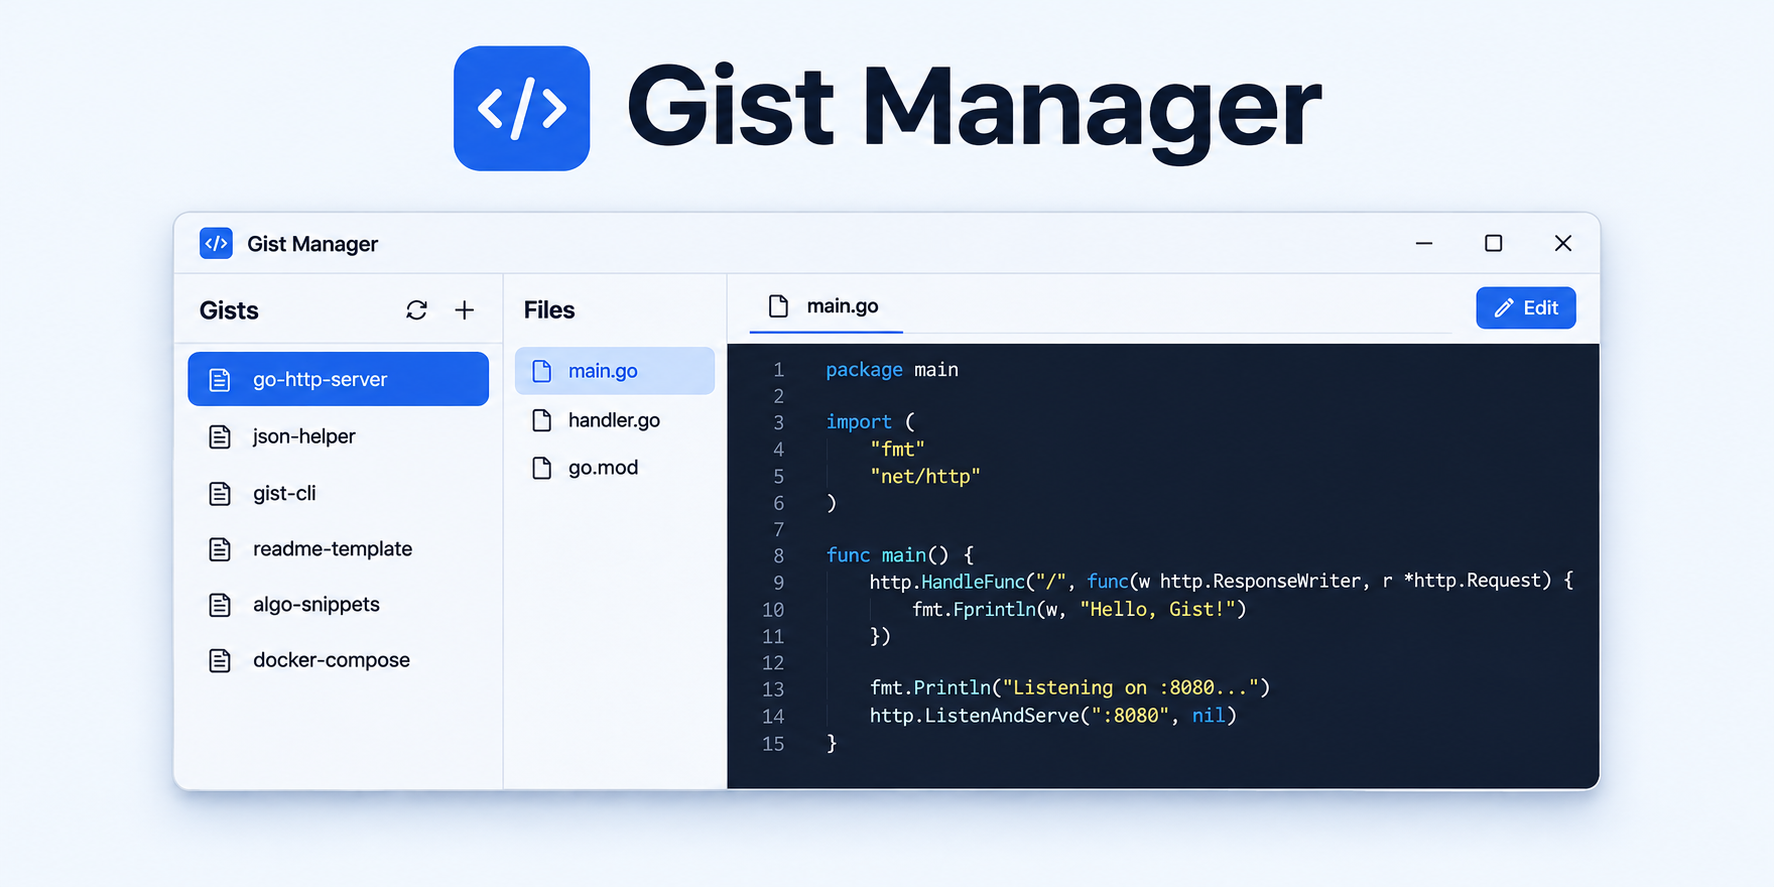
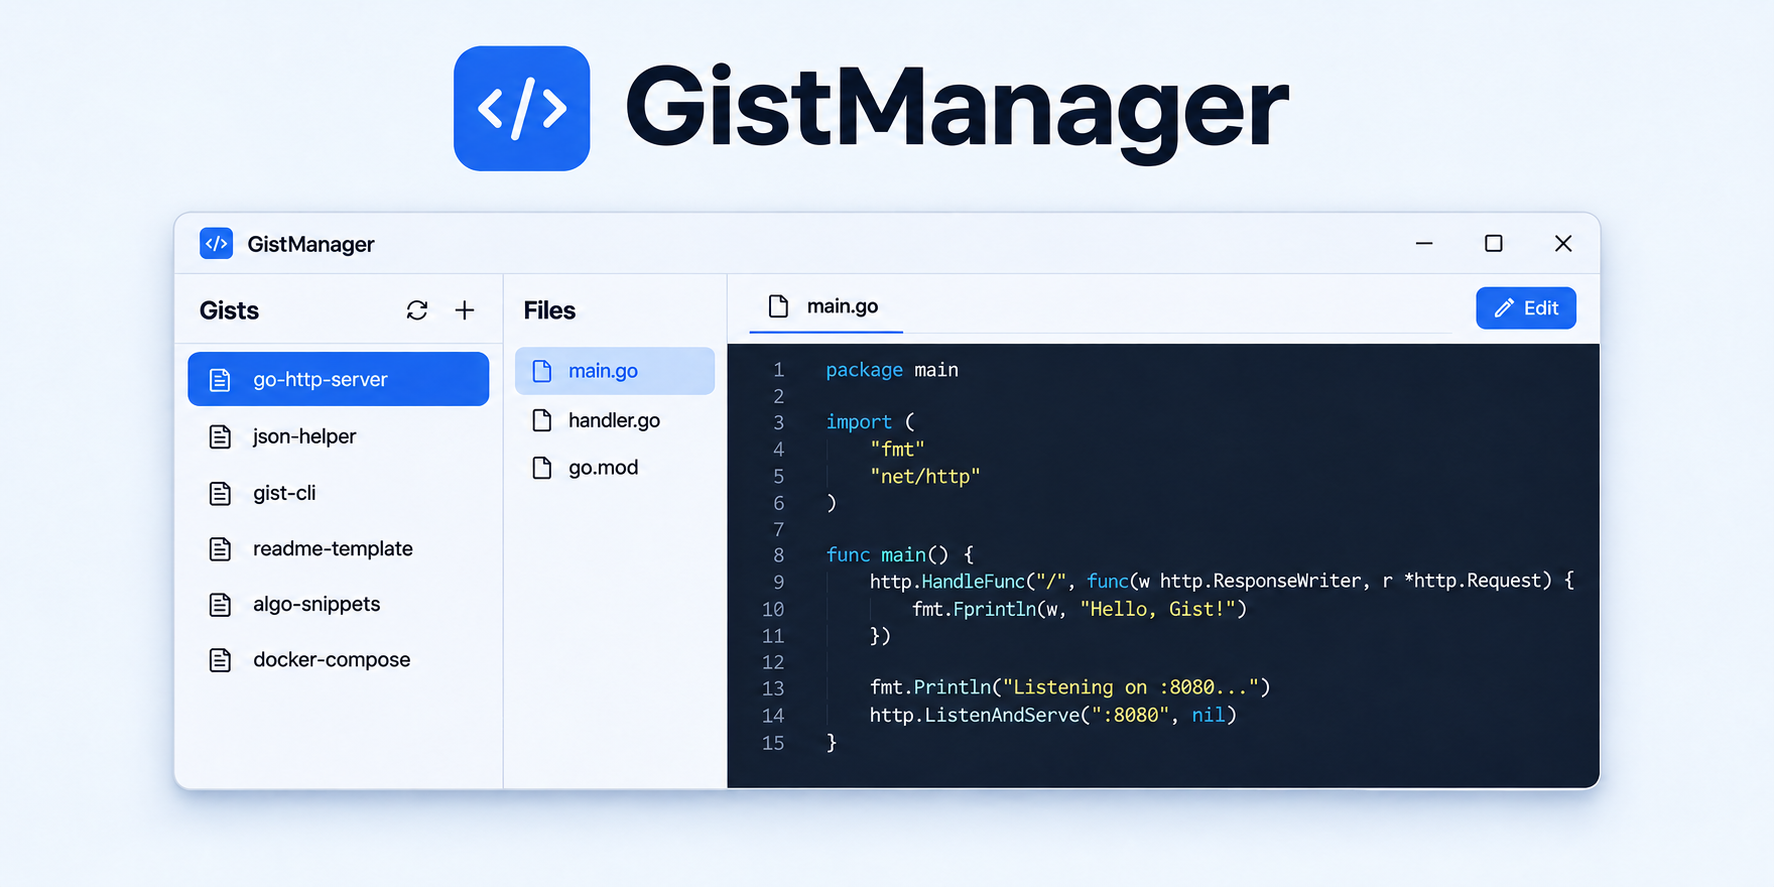
feat: release v1.0.8 with unified GistManager naming

diff --git a/cmd/release/windows_installer_test.go b/cmd/release/windows_installer_test.go
@@ -9,7 +9,7 @@ import (
 
 func TestChineseInstallerPreservesApplicationResources(t *testing.T) {
 	stage := t.TempDir()
-	config := installerConfig{Name: "Gist管理器", Slug: "gist-manager", Identifier: "com.perzikkop.gist-manager", Version: "1.0.3"}
+	config := installerConfig{Name: "GistManager", Slug: "gist-manager", Identifier: "com.perzikkop.gist-manager", Version: "1.0.3"}
 	output := filepath.Join(stage, config.Name+" Setup "+config.Version+" amd64.exe")
 	frameworkInstaller := config.Slug + "-setup-" + config.Version + "-amd64.exe"
 	for _, file := range []string{config.Name + ".exe", "icon.png", "update-public.key", filepath.Base(output), frameworkInstaller, "helper.exe"} {
@@ -37,7 +37,9 @@ func TestChineseInstallerPreservesApplicationResources(t *testing.T) {
 			t.Fatal("installer included another installer", installer)
 		}
 	}
-	for _, text := range []string{`MUI_LANGUAGE "SimpChinese"`, "创建桌面快捷方式", "运行 Gist管理器", `MUI_UNPAGE_CONFIRM`, `MUI_UNPAGE_INSTFILES`} {
+	for _, text := range []string{`MUI_LANGUAGE "SimpChinese"`, "创建桌面快捷方式", "运行 GistManager", `MUI_UNPAGE_CONFIRM`, `MUI_UNPAGE_INSTFILES`,
+		`InstallDirRegKey HKCU "Software\Microsoft\Windows\CurrentVersion\Uninstall\com.perzikkop.gist-manager" "InstallLocation"`,
+		`Delete "$INSTDIR\Gist管理器.exe"`, `Delete "$SMPROGRAMS\Gist管理器.lnk"`, `Delete "$DESKTOP\Gist管理器.lnk"`} {
 		if !strings.Contains(script, text) {
 			t.Errorf("missing Chinese installer UI: %s", text)
 		}
@@ -46,7 +48,7 @@ func TestChineseInstallerPreservesApplicationResources(t *testing.T) {
 
 func TestUniversalWindowsInstallerSelectsNativePayload(t *testing.T) {
 	root := t.TempDir()
-	config := installerConfig{Name: "Gist管理器", Slug: "gist-manager", Identifier: "com.perzikkop.gist-manager", Version: "1.0.5"}
+	config := installerConfig{Name: "GistManager", Slug: "gist-manager", Identifier: "com.perzikkop.gist-manager", Version: "1.0.5"}
 	output := filepath.Join(root, "windows-universal", config.Name+" Setup "+config.Version+".exe")
 	payloads := map[string]string{}
 	for _, arch := range []string{"amd64", "arm64"} {

diff --git a/main.go b/main.go
@@ -70,9 +70,9 @@ func main() {
 		if err != nil {
 			log.Fatal(err)
 		}
-		*dataDir = filepath.Join(base, config.Name)
-		if mygo.IsDev() {
-			*dataDir += "-dev"
+		*dataDir, err = defaultDataDirectory(base, config.Name, mygo.IsDev())
+		if err != nil {
+			log.Fatal(err)
 		}
 		if !*demo && !mygo.IsDev() {
 			if err := security.ImportLegacy(*dataDir, base); err != nil {
@@ -96,6 +96,10 @@ func main() {
 		return
 	}
 	var vault security.Vault = security.SystemVault{}
+	if !mygo.App.IsPackaged() && !mygo.IsDev() {
+		// Unpackaged runs used the old app name as their credential service.
+		vault = security.SystemVault{Service: "Gist管理器"}
+	}
 	var biometric security.Biometric = security.SystemBiometric{}
 	if *demo {
 		vault, biometric = &app.DemoVault{}, app.DemoBiometric{}
@@ -122,13 +126,8 @@ func main() {
 	}
 	mygo.App.WhenReady(func() {
 		a.Window = mygo.NewWindow(mygo.WindowOptions{
-			Title: l10n.Text("Gist管理器"), Width: 1500, Height: 940, MinWidth: 1000, MinHeight: 680,
+			Title: l10n.Text("GistManager"), Width: 1500, Height: 940, MinWidth: 1000, MinHeight: 680,
 			Content: ui.View(a.View),
-		})
-		mygo.App.OnLocaleChanged(func(string) {
-			if !a.Window.IsDestroyed() {
-				a.Window.SetTitle(l10n.Text("Gist管理器"))
-			}
 		})
 		// Older Windows update helpers pass SW_HIDE to the relaunched app.
 		// Show the workspace before startup authentication can open its prompt.
@@ -173,4 +172,26 @@ func main() {
 	if err := mygo.App.Run(); err != nil {
 		log.Fatal(err)
 	}
+}
+
+func defaultDataDirectory(base, name string, dev bool) (string, error) {
+	suffix := ""
+	if dev {
+		suffix = "-dev"
+	}
+	directory := filepath.Join(base, name+suffix)
+	// Keep existing installations in place, including pending update paths.
+	for _, candidate := range []string{directory, filepath.Join(base, "Gist管理器"+suffix)} {
+		info, err := os.Stat(candidate)
+		if err == nil {
+			if !info.IsDir() {
+				return "", fmt.Errorf("application data path is not a directory: %s", candidate)
+			}
+			return candidate, nil
+		}
+		if !os.IsNotExist(err) {
+			return "", err
+		}
+	}
+	return directory, nil
 }

diff --git a/internal/l10n/en.go b/internal/l10n/en.go
@@ -2,7 +2,7 @@ package l10n
 
 var english = map[string]string{
 	"1 个文件":              "1 file",
-	"Gist管理器":            "Gist Manager",
+	"GistManager":        "GistManager",
 	"知道了":                "Dismiss",
 	"取消":                 "Cancel",
 	"演示模式":               "Demo",
@@ -182,7 +182,7 @@ var english = map[string]string{
 	"读取 %s 失败 (%d)":                             "Could not read %s (%d)",
 	"无法加载 Touch ID，请使用软件密码":                     "Could not load Touch ID; use your app password",
 	"此 Mac 未配置 Touch ID，请使用软件密码":                "Touch ID is not configured; use your app password",
-	"解锁 Gist管理器":                                "Unlock Gist Manager",
+	"解锁 GistManager":                            "Unlock GistManager",
 	"Touch ID 已取消或验证失败":                         "Touch ID was canceled or failed",
 	"无效的旧版凭据":                                   "Invalid legacy credentials",
 	"旧版凭据长度不正确":                                 "Invalid legacy credential length",
@@ -197,7 +197,7 @@ var english = map[string]string{
 	"凭据为空":                                      "Credentials are empty",
 	"Windows Hello 接口错误 (0x%08X)":               "Windows Hello error (0x%08X)",
 	"Windows Hello 的所属窗口已关闭":                    "The Windows Hello owner window was closed",
-	"验证身份以解锁或管理 Gist管理器密码":                      "Verify your identity to unlock Gist Manager or manage its password",
+	"验证身份以解锁或管理 GistManager密码":                  "Verify your identity to unlock GistManager or manage its password",
 	"应用尚未解锁":                                    "App is locked",
 	"安全设置损坏，无法安全启动: %w":                         "Security settings are damaged; the app cannot start safely: %w",
 	"安全设置不完整，请恢复 security.json 备份":              "Security settings are incomplete; restore your security.json backup",

diff --git a/internal/update/release_test.go b/internal/update/release_test.go
@@ -120,7 +120,7 @@ func TestRejectInvalidReleaseMetadata(t *testing.T) {
 func TestUnsignedInstallerRevalidatesGitHubRelease(t *testing.T) {
 	application := "GistManager.exe"
 	if runtime.GOOS == "darwin" {
-		application = "Gist管理器.app/Contents/MacOS/Gist管理器"
+		application = "GistManager.app/Contents/MacOS/GistManager"
 	}
 	archive := archiveFixture(t, application, "new application")
 	platform := runtime.GOOS + "-" + runtime.GOARCH
@@ -140,7 +140,7 @@ func TestUnsignedInstallerRevalidatesGitHubRelease(t *testing.T) {
 			target, executable := filepath.Join(dir, "installed.exe"), ""
 			if runtime.GOOS == "darwin" {
 				target = filepath.Join(dir, "Installed.app")
-				executable = filepath.Join(target, "Contents", "MacOS", "Gist管理器")
+				executable = filepath.Join(target, "Contents", "MacOS", "GistManager")
 				if err := os.MkdirAll(filepath.Dir(executable), 0o700); err != nil {
 					t.Fatal(err)
 				}
@@ -261,8 +261,8 @@ func TestGitHubReleaseUpdateIntegration(t *testing.T) {
 	target := filepath.Join(dir, "GistManager.exe")
 	executable := target
 	if runtime.GOOS == "darwin" {
-		target = filepath.Join(dir, "Gist管理器.app")
-		executable = filepath.Join(target, "Contents", "MacOS", "Gist管理器")
+		target = filepath.Join(dir, "GistManager.app")
+		executable = filepath.Join(target, "Contents", "MacOS", "GistManager")
 		if err := os.MkdirAll(filepath.Dir(executable), 0o700); err != nil {
 			t.Fatal(err)
 		}
@@ -277,6 +277,11 @@ func TestGitHubReleaseUpdateIntegration(t *testing.T) {
 	}
 	if err := ApplyPlan(path, "", false); err != nil {
 		t.Fatal("published archive failed to install", err)
+	}
+	if runtime.GOOS == "darwin" {
+		if _, err := os.Stat(executable); os.IsNotExist(err) {
+			executable = filepath.Join(target, "Contents", "MacOS", "Gist管理器")
+		}
 	}
 	output, err := exec.Command(executable, "--version").Output()
 	if err != nil || strings.TrimSpace(string(output)) != s.manifest.Version {

diff --git a/cmd/release/main.go b/cmd/release/main.go
@@ -206,12 +206,12 @@ func pack(args []string) error {
 		}
 	}
 	if *source == "" {
-		name := "Gist管理器.exe"
+		name := "GistManager.exe"
 		if strings.HasPrefix(*platform, "darwin-") {
-			name = "Gist管理器.app"
+			name = "GistManager.app"
 		}
 		if strings.HasPrefix(*platform, "linux-") {
-			name = "gist管理器"
+			name = "GistManager"
 		}
 		*source = filepath.Join("dist", *platform, name)
 	}
@@ -222,7 +222,7 @@ func pack(args []string) error {
 	archive := filepath.Join(*out, filename)
 	root := "GistManager.exe"
 	if strings.HasPrefix(*platform, "darwin-") {
-		root = "Gist管理器.app"
+		root = "GistManager.app"
 	}
 	if strings.HasPrefix(*platform, "linux-") {
 		root = "GistManager"
@@ -309,7 +309,7 @@ func archiveApp(source, target, root string) (err error) {
 			return err
 		}
 		header.Name, header.Method = name, zip.Deflate
-		if strings.HasPrefix(root, "Gist管理器.app") && strings.Contains(name, "/Contents/MacOS/") {
+		if strings.HasPrefix(root, "GistManager.app") && strings.Contains(name, "/Contents/MacOS/") {
 			header.SetMode(entry.Mode() | 0o111)
 		}
 		part, err := writer.CreateHeader(header)

diff --git a/cmd/release/main_test.go b/cmd/release/main_test.go
@@ -89,3 +89,26 @@ func TestPortableArchiveWithoutSigningKey(t *testing.T) {
 		t.Fatal("unexpected portable archive layout")
 	}
 }
+
+func TestMacArchiveUsesGistManagerBundleAndExecutable(t *testing.T) {
+	t.Chdir(t.TempDir())
+	binary := filepath.Join("dist", "darwin-arm64", "GistManager.app", "Contents", "MacOS", "GistManager")
+	if err := os.MkdirAll(filepath.Dir(binary), 0o700); err != nil {
+		t.Fatal(err)
+	}
+	if err := os.WriteFile(binary, []byte("fixture"), 0o600); err != nil {
+		t.Fatal(err)
+	}
+	if err := pack([]string{"-unsigned", "-platform", "darwin-arm64", "-version", "1.0.0"}); err != nil {
+		t.Fatal(err)
+	}
+	archive, err := zip.OpenReader("release/GistManager-1.0.0-darwin-arm64.zip")
+	if err != nil {
+		t.Fatal(err)
+	}
+	defer archive.Close()
+	if len(archive.File) != 1 || archive.File[0].Name != "GistManager.app/Contents/MacOS/GistManager" ||
+		archive.File[0].Mode().Perm()&0o111 != 0o111 {
+		t.Fatal("incorrect renamed macOS bundle or missing executable permissions")
+	}
+}

diff --git a/main_test.go b/main_test.go
@@ -65,3 +65,34 @@ func TestPackagedNativeUpdateHelper(t *testing.T) {
 		t.Fatal("native updater changed unrelated installation files")
 	}
 }
+
+func TestDefaultDataDirectoryPreservesExistingInstallation(t *testing.T) {
+	for _, dev := range []bool{false, true} {
+		suffix := ""
+		if dev {
+			suffix = "-dev"
+		}
+		root := t.TempDir()
+		current := filepath.Join(root, "GistManager"+suffix)
+		legacy := filepath.Join(root, "Gist管理器"+suffix)
+		check := func(want string) {
+			t.Helper()
+			got, err := defaultDataDirectory(root, "GistManager", dev)
+			if err != nil || got != want {
+				t.Fatalf("directory = %q, %v; want %q", got, err, want)
+			}
+		}
+		check(current)
+		if err := os.Mkdir(legacy, 0o700); err != nil {
+			t.Fatal(err)
+		}
+		if err := os.WriteFile(filepath.Join(legacy, "layout.json"), []byte(`{"language":"en"}`), 0o600); err != nil {
+			t.Fatal(err)
+		}
+		check(legacy)
+		if err := os.Mkdir(current, 0o700); err != nil {
+			t.Fatal(err)
+		}
+		check(current)
+	}
+}

diff --git a/internal/update/install.go b/internal/update/install.go
@@ -178,14 +178,20 @@ func applyPlan(path, publicKey string, relaunch bool, client *http.Client) error
 	}
 	newTarget := filepath.Join(work, "GistManager.exe")
 	if runtime.GOOS == "darwin" {
-		newTarget = filepath.Join(work, "Gist管理器.app")
+		newTarget = filepath.Join(work, "GistManager.app")
+		if _, err := os.Stat(newTarget); os.IsNotExist(err) {
+			newTarget = filepath.Join(work, "Gist管理器.app")
+		}
 	}
 	if runtime.GOOS == "linux" {
 		newTarget = filepath.Join(work, "GistManager")
 	}
 	entry := newTarget
 	if runtime.GOOS == "darwin" {
-		entry = filepath.Join(newTarget, "Contents", "MacOS", "Gist管理器")
+		entry = filepath.Join(newTarget, "Contents", "MacOS", "GistManager")
+		if _, err := os.Stat(entry); os.IsNotExist(err) {
+			entry = filepath.Join(newTarget, "Contents", "MacOS", "Gist管理器")
+		}
 	}
 	info, err := os.Stat(entry)
 	if err != nil {

diff --git a/cmd/release/windows_installer.go b/cmd/release/windows_installer.go
@@ -166,6 +166,12 @@ func windowsPayloadFiles(config installerConfig, stage, output string) (string, 
 
 func renderWindowsInstaller(config installerConfig, files, output, icon string) string {
 	executable := config.Name + ".exe"
+	legacyCleanup := ""
+	if config.Name == "GistManager" && config.Identifier == "com.perzikkop.gist-manager" {
+		legacyCleanup = `  Delete "$INSTDIR\Gist管理器.exe"
+  Delete "$SMPROGRAMS\Gist管理器.lnk"
+  Delete "$DESKTOP\Gist管理器.lnk"`
+	}
 	return strings.NewReplacer(
 		"@NAME@", nsisQuote(config.Name),
 		"@DISPLAY_NAME@", nsisEscape(config.Name),
@@ -176,6 +182,7 @@ func renderWindowsInstaller(config installerConfig, files, output, icon string) 
 		"@OUTPUT@", nsisQuote(output),
 		"@ICON@", nsisQuote(icon),
 		"@FILES@", files,
+		"@LEGACY_CLEANUP@", legacyCleanup,
 	).Replace(windowsInstallerTemplate)
 }
 

diff --git a/internal/update/service_test.go b/internal/update/service_test.go
@@ -113,7 +113,7 @@ func TestCheckDownloadAndTampering(t *testing.T) {
 func TestInstallVerifiedArchiveAndRejectTraversal(t *testing.T) {
 	name := "GistManager.exe"
 	if runtime.GOOS == "darwin" {
-		name = "Gist管理器.app/Contents/MacOS/Gist管理器"
+		name = "GistManager.app/Contents/MacOS/GistManager"
 	}
 	if runtime.GOOS == "linux" {
 		name = "GistManager"
@@ -139,7 +139,7 @@ func TestInstallVerifiedArchiveAndRejectTraversal(t *testing.T) {
 	}
 	installed := target
 	if runtime.GOOS == "darwin" {
-		installed = filepath.Join(target, "Contents/MacOS/Gist管理器")
+		installed = filepath.Join(target, "Contents/MacOS/GistManager")
 	}
 	data, err := os.ReadFile(installed)
 	if err != nil || string(data) != "new native executable" {

diff --git a/internal/security/biometric_darwin.go b/internal/security/biometric_darwin.go
@@ -51,7 +51,7 @@ func (SystemBiometric) Verify(ctx context.Context) error {
 	done := make(chan bool, 1)
 	block := objc.NewBlock(func(_ objc.Block, success bool, _ objc.ID) { done <- success })
 	defer block.Release()
-	reason := objc.ID(objc.GetClass("NSString")).Send(objc.RegisterName("alloc")).Send(objc.RegisterName("initWithUTF8String:"), l10n.Text("解锁 Gist管理器"))
+	reason := objc.ID(objc.GetClass("NSString")).Send(objc.RegisterName("alloc")).Send(objc.RegisterName("initWithUTF8String:"), l10n.Text("解锁 GistManager"))
 	defer reason.Send(objc.RegisterName("release"))
 	object.Send(objc.RegisterName("evaluatePolicy:localizedReason:reply:"), int64(1), reason, block)
 	select {

diff --git a/internal/security/hello_windows.go b/internal/security/hello_windows.go
@@ -96,7 +96,7 @@ func runHello(ctx context.Context, verify bool, owner uintptr) (int32, error) {
 		// IUserConsentVerifierStatics inherits IInspectable (six base slots).
 		result, _, _ = syscall.SyscallN(factory.vtable[6], uintptr(unsafe.Pointer(factory)), uintptr(unsafe.Pointer(&operation)))
 	} else {
-		message, stringErr := helloString(l10n.Text("验证身份以解锁或管理 Gist管理器密码"))
+		message, stringErr := helloString(l10n.Text("验证身份以解锁或管理 GistManager密码"))
 		if stringErr != nil {
 			return 0, stringErr
 		}
